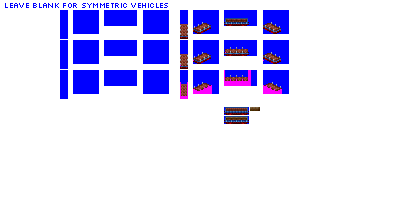
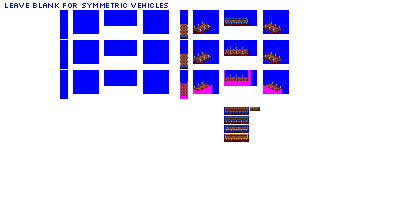
Change: add more plate cars

Changed region(s): [[0.54, 0.6, 0.63, 0.72], [0.54, 0.09, 0.63, 0.12]]

diff --git a/src/vehicles/plate_cars.py b/src/vehicles/plate_cars.py
@@ -134,7 +134,7 @@ def main():
                      chassis='2_axle_filled_16px')
     """
     consist = PlateCarConsist(roster='pony',
-                             base_numeric_id=1840,
+                             base_numeric_id=1800,
                              gen=5,
                              subtype='B',
                              sprites_complete=False)
@@ -142,7 +142,7 @@ def main():
     consist.add_unit(type=FreightCar,
                      cargo_length=6,
                      chassis='2_axle_filled_24px')
-    """
+
     consist = PlateCarConsist(roster='pony',
                              base_numeric_id=1870,
                              gen=5,
@@ -151,7 +151,7 @@ def main():
 
     consist.add_unit(type=FreightCar,
                      cargo_length=8,
-                     chassis='4_axle_1cc_filled_32px')
+                     chassis='4_axle_filled_32px')
 
     consist = PlateCarConsist(roster='pony',
                              base_numeric_id=1960,
@@ -172,4 +172,4 @@ def main():
     consist.add_unit(type=FreightCar,
                      cargo_length=8,
                      chassis='4_axle_1cc_filled_32px')
-    """
+
